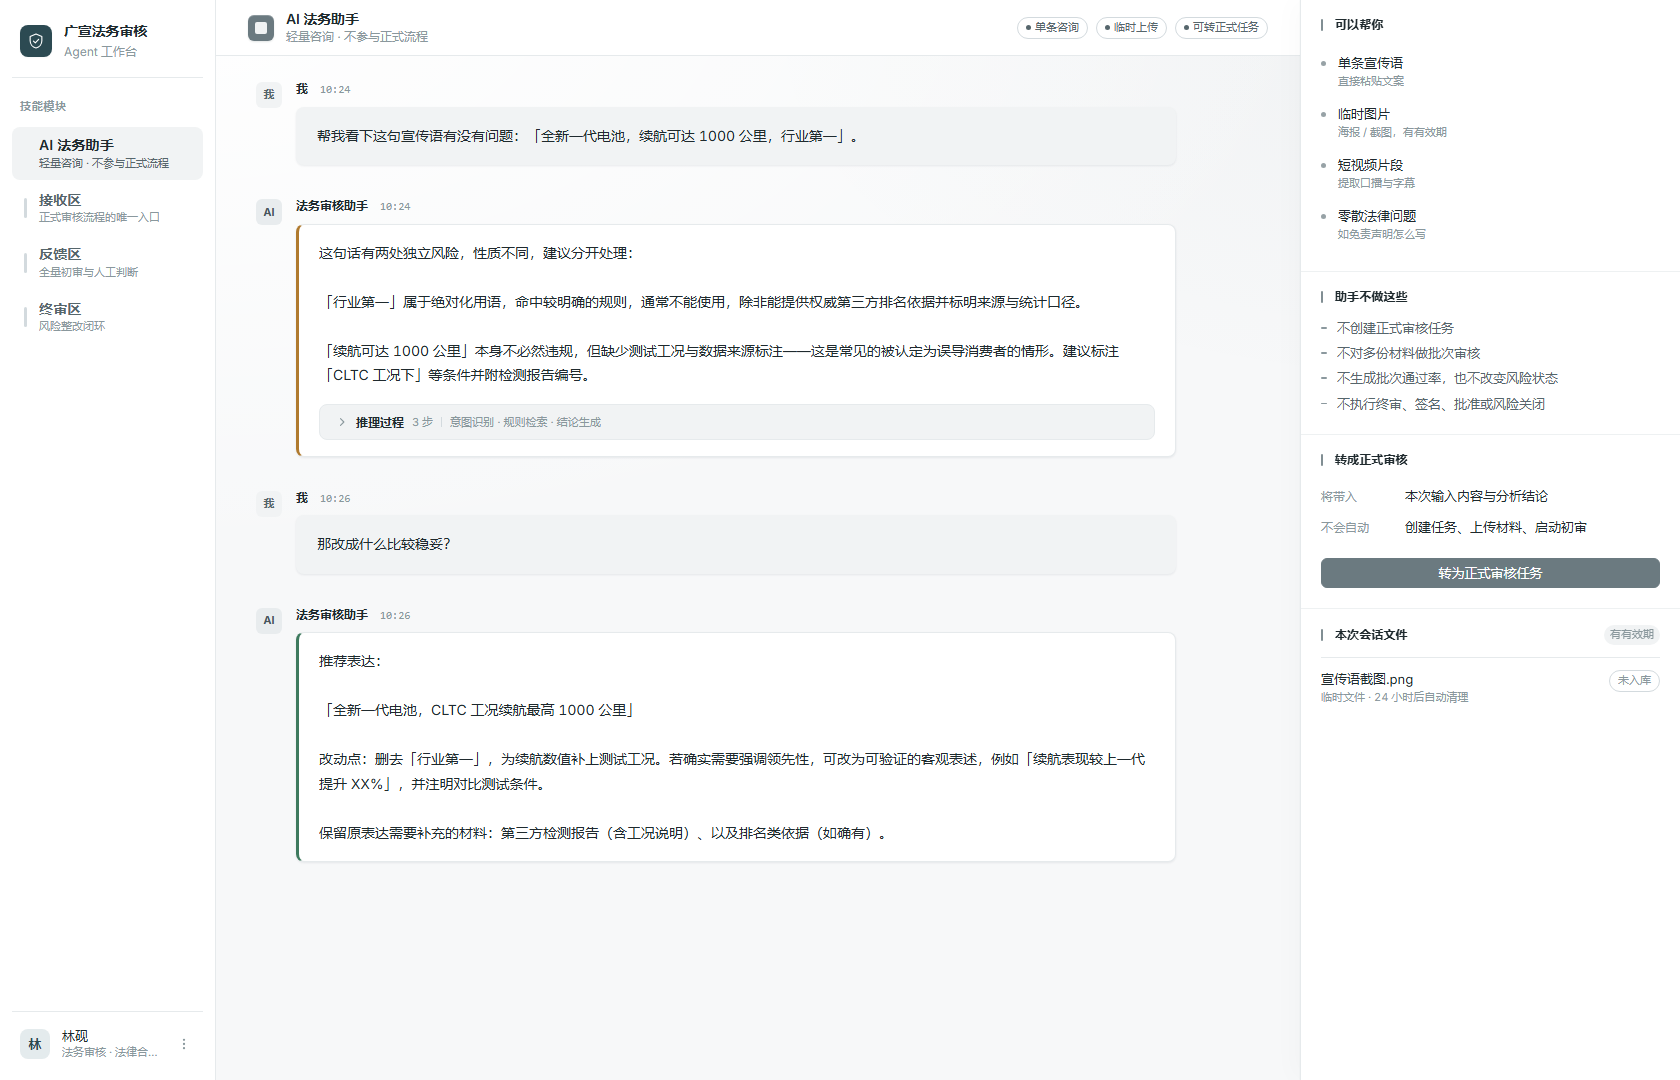
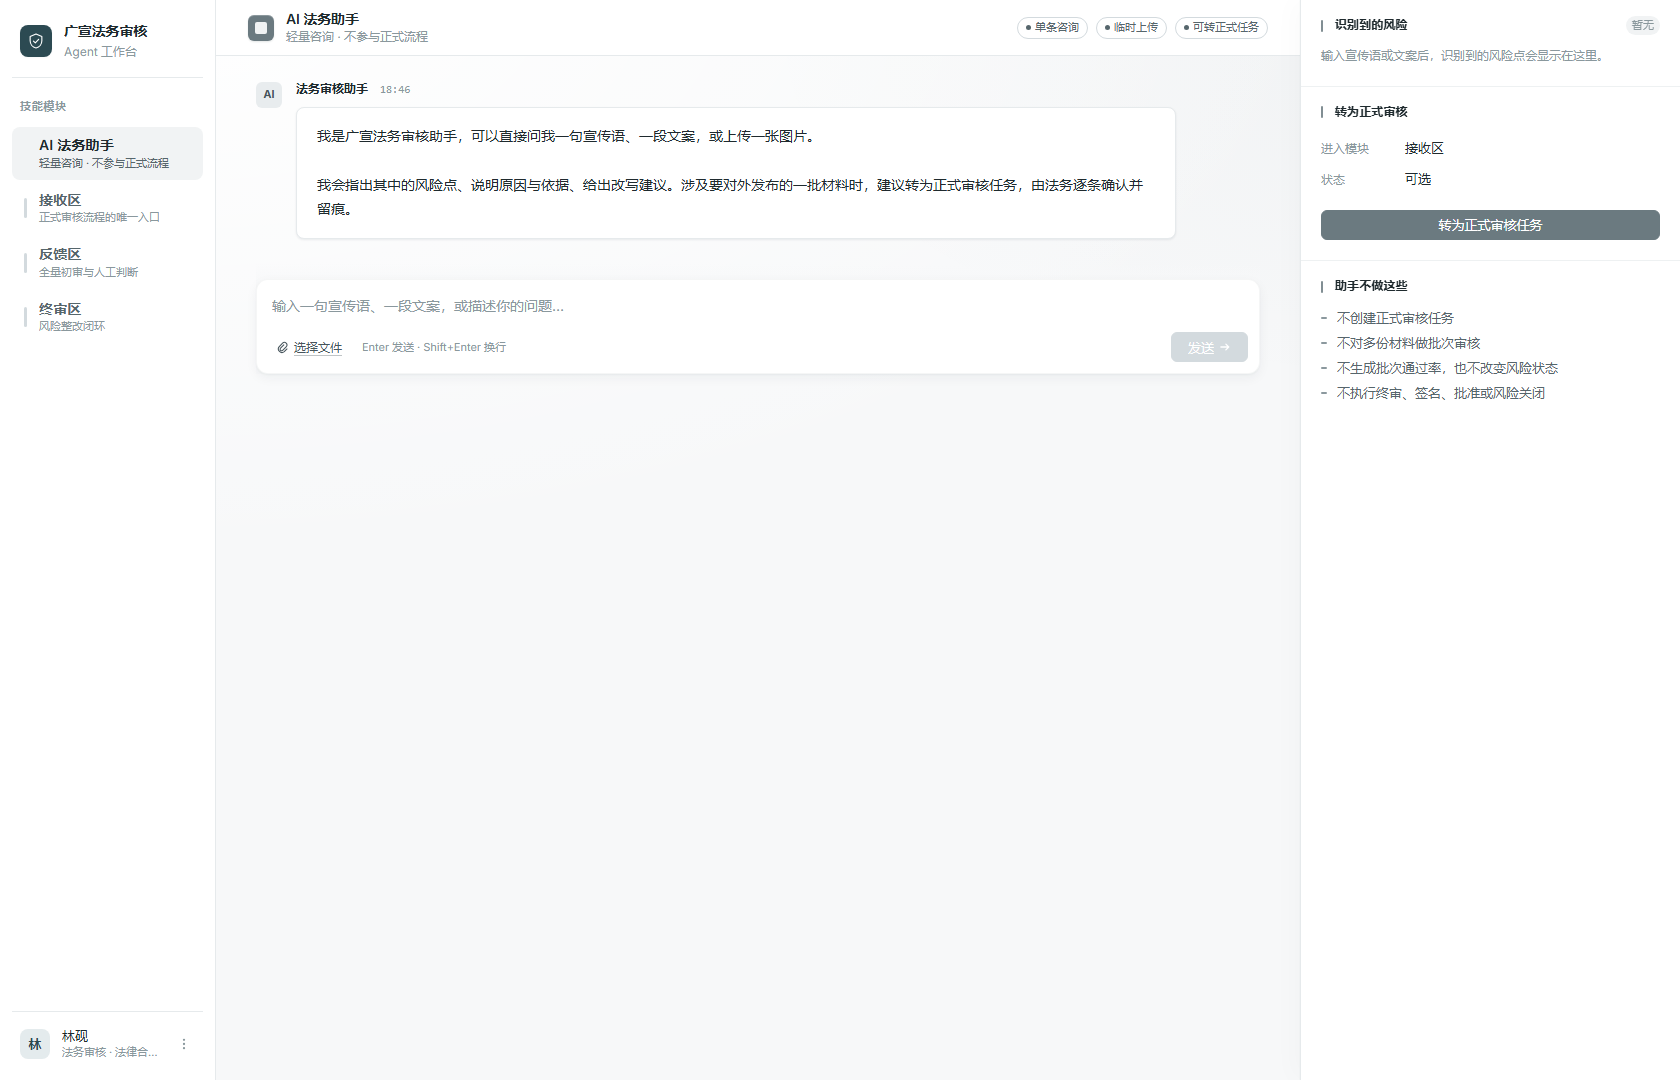
fix(web): 对话输入框补上「选择文件」链接，并修复 Boolean prop 默认值陷阱
问题：附件入口原先只是一个回形针图标，容易被当成装饰而看不见，
用户反馈找不到上传入口。

改动
- 附件入口改为显式的文字链接「选择文件」（带图标 + 下划线 + 悬浮底色），
  上传中显示「上传中…」
- 修复一个隐蔽缺陷：allowAttach 是 Boolean 类型 prop，
  Vue 对未传值的 Boolean prop 会强制转换为 false（不是 undefined），
  因此 `allowAttach !== false` 恒为 false，按钮静默消失。
  改用 withDefaults 显式给默认值 true。
  该缺陷编译、类型检查、构建全部通过，只在运行时表现为按钮不存在。
- 同时补上接收区上传区与助手之间的入口一致性

diff --git a/gw-web/src/components/Composer.vue b/gw-web/src/components/Composer.vue
@@ -9,17 +9,27 @@
  */
 import { computed, nextTick, ref } from 'vue'
 
-const props = defineProps<{
-  /** 发送中时禁用输入 */
-  sending?: boolean
-  placeholder?: string
-  /** 是否允许附件（助手允许；某些场景不需要） */
-  allowAttach?: boolean
-  /** 已附加的文件名 */
-  attachmentName?: string
-  /** 附件上传中 */
-  uploading?: boolean
-}>()
+/**
+ * ⚠ 必须用 withDefaults 给 allowAttach 一个 true 默认值。
+ *
+ * Vue 对声明为 Boolean 类型的 prop，在**未传值时会强制转换为 false**（不是 undefined）。
+ * 因此 `allowAttach !== false` 在不传时恒为 false，按钮永远不会出现——
+ * 这个坑排查了很久，因为编译、类型检查、构建全部通过，只是按钮静默消失。
+ */
+const props = withDefaults(
+  defineProps<{
+    /** 发送中时禁用输入 */
+    sending?: boolean
+    placeholder?: string
+    /** 是否允许附件（助手允许；某些场景不需要） */
+    allowAttach?: boolean
+    /** 已附加的文件名 */
+    attachmentName?: string
+    /** 附件上传中 */
+    uploading?: boolean
+  }>(),
+  { allowAttach: true },
+)
 
 const emit = defineEmits<{
   (e: 'send', text: string): void
@@ -31,6 +41,15 @@ const text = ref('')
 const ta = ref<HTMLTextAreaElement | null>(null)
 
 const canSend = computed(() => text.value.trim().length > 0 && !props.sending)
+
+/**
+ * 是否显示「选择文件」入口。
+ *
+ * 用显式 computed 而不是模板里的 `allowAttach !== false`：
+ * 后者依赖"未传即 undefined"这一隐含前提，一旦某个调用方传了别的值，
+ * 判断就会静默变成 false，按钮消失且没有任何报错（已经踩过一次）。
+ */
+const showAttach = computed(() => props.allowAttach !== false)
 
 function autoGrow() {
   const el = ta.value
@@ -100,19 +119,19 @@ function pickFile() {
       />
 
       <div class="composer__bar">
+        <!-- 明确的文字链接而非仅有图标：图标入口容易被当成装饰而看不见 -->
         <button
-          v-if="allowAttach !== false"
-          class="composer__icon"
+          v-if="showAttach"
+          class="composer__link"
           type="button"
-          title="附加文件"
-          aria-label="附加文件"
           :disabled="sending || uploading"
           @click="pickFile"
         >
-          <svg viewBox="0 0 18 18" width="15" height="15" fill="none" aria-hidden="true">
-            <path d="M10.8 5.4 6.3 9.9a2 2 0 0 0 2.9 2.9l4.8-4.8a3.5 3.5 0 0 0-5-5L4.1 7.9a5 5 0 0 0 7 7l3.7-3.7"
-              stroke="currentColor" stroke-width="1.4" stroke-linecap="round" stroke-linejoin="round" />
+          <svg viewBox="0 0 16 16" width="13" height="13" fill="none" aria-hidden="true">
+            <path d="M9.6 4.8 5.6 8.8a1.8 1.8 0 0 0 2.6 2.6l4.3-4.3a3.1 3.1 0 0 0-4.4-4.4L4 6.9a4.4 4.4 0 0 0 6.2 6.2l3.3-3.3"
+              stroke="currentColor" stroke-width="1.3" stroke-linecap="round" stroke-linejoin="round" />
           </svg>
+          {{ uploading ? '上传中…' : '选择文件' }}
         </button>
         <span class="composer__hint">Enter 发送 · Shift+Enter 换行</span>
         <button class="composer__send" type="button" :disabled="!canSend" @click="submit">
@@ -220,27 +239,36 @@ function pickFile() {
   padding: var(--gw-s2) var(--gw-s3) var(--gw-s3);
 }
 
-.composer__icon {
-  display: grid;
-  place-items: center;
-  width: 28px;
-  height: 28px;
+/* 选择文件：文字链接样式，比图标更容易被发现 */
+.composer__link {
+  display: inline-flex;
+  align-items: center;
+  gap: 5px;
+  height: 26px;
+  padding: 0 var(--gw-s2);
   flex: none;
   border: 0;
   border-radius: var(--gw-r-sm);
   background: transparent;
-  color: var(--gw-text-tertiary);
-  transition: background var(--gw-dur-fast) var(--gw-ease), color var(--gw-dur-fast) var(--gw-ease);
+  color: var(--gw-accent-text);
+  font-size: var(--gw-fs-sm);
+  font-weight: 500;
+  text-decoration: underline;
+  text-underline-offset: 3px;
+  text-decoration-color: color-mix(in srgb, currentColor 35%, transparent);
+  transition: background var(--gw-dur-fast) var(--gw-ease),
+    text-decoration-color var(--gw-dur-fast) var(--gw-ease);
 }
 
-.composer__icon:hover:not(:disabled) {
-  background: var(--gw-bg-sunken);
-  color: var(--gw-text-secondary);
+.composer__link:hover:not(:disabled) {
+  background: var(--gw-accent-faint);
+  text-decoration-color: currentColor;
 }
 
-.composer__icon:disabled {
-  opacity: 0.4;
+.composer__link:disabled {
+  opacity: 0.5;
   cursor: not-allowed;
+  text-decoration: none;
 }
 
 .composer__hint {
